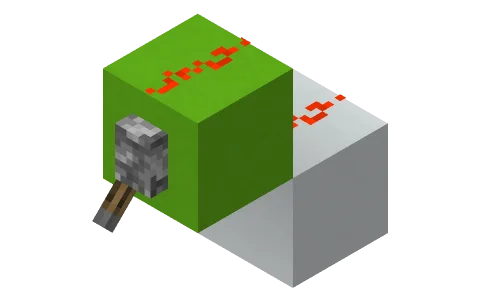
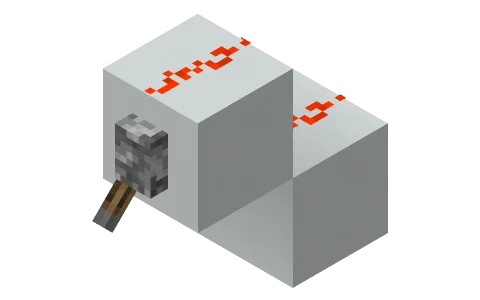
The How builds are recognized page states the rule the site reads by: outputs are repeaters or comparators that power nothing, the block in front of each air, on any block of any colour, a repeater a bit and a comparator a bit or, where the category reads one, a strength from 0 to 15, and one poweri

Changed region(s): [[0.1875, 0.03, 0.625, 0.78]]

diff --git a/src/recognize/guide.rs b/src/recognize/guide.rs
@@ -42,7 +42,6 @@ impl Example {
 }
 
 const WHITE: &str = "white_concrete";
-const YELLOW: &str = "yellow_concrete";
 const LEVER: &str = "lever[face=wall,facing=south,powered=true]";
 const DUST_NS: &str =
     "redstone_wire[east=none,north=side,power=15,south=side,west=none]";
@@ -51,41 +50,42 @@ const DUST_EW: &str =
 const TORCH_EAST: &str = "redstone_wall_torch[facing=east,lit=false]";
 const REPEATER_IN: &str =
     "repeater[delay=1,facing=south,locked=false,powered=true]";
+/// A repeater reading from the west, giving out east.
+const REPEATER_OUT: &str =
+    "repeater[delay=1,facing=west,locked=false,powered=true]";
+/// A comparator reading from the south, giving out north.
+const COMPARATOR_IN: &str =
+    "comparator[facing=south,mode=compare,powered=false]";
 
 /// An input at `x`, `y`: its block, its lever on the south side, and the
 /// dust it drives to the north, on a block of its own.
 fn input(x: i32, y: i32) -> Vec<(Pos, &'static str)> {
-    coloured_input(x, y, WHITE)
-}
-
-/// An input as `input` makes it, its block `block`, with dust on top.
-fn dust_on_top(block: &'static str) -> Vec<(Pos, &'static str)> {
-    [coloured_input(1, 1, block), vec![([1, 2, 1], DUST_EW)]].concat()
-}
-
-/// An input as `input` makes it, its block `block`.
-fn coloured_input(
-    x: i32,
-    y: i32,
-    block: &'static str,
-) -> Vec<(Pos, &'static str)> {
     vec![
-        ([x, y, 1], block),
+        ([x, y, 1], WHITE),
         ([x, y, 2], LEVER),
         ([x, y - 1, 0], WHITE),
         ([x, y, 0], DUST_NS),
     ]
 }
 
-/// An output: dust coming from the west along white blocks onto a block
-/// of `colour` at `x`.
-fn output(x: i32, z: i32, colour: &'static str) -> Vec<(Pos, &'static str)> {
-    vec![
-        ([x - 1, 0, z], WHITE),
-        ([x - 1, 1, z], DUST_EW),
-        ([x, 0, z], colour),
-        ([x, 1, z], DUST_EW),
-    ]
+/// An input as `input` makes it, with dust on top of its block.
+fn dust_on_top() -> Vec<(Pos, &'static str)> {
+    [input(1, 1), vec![([1, 2, 1], DUST_EW)]].concat()
+}
+
+/// An output: dust coming from the west along white blocks into a
+/// repeater on a block at `x`, giving out east into `front`.
+fn output(x: i32, front: &'static str) -> Vec<(Pos, &'static str)> {
+    let mut blocks = vec![
+        ([x - 1, 0, 0], WHITE),
+        ([x - 1, 1, 0], DUST_EW),
+        ([x, 0, 0], WHITE),
+        ([x, 1, 0], REPEATER_OUT),
+    ];
+    if front != "air" {
+        blocks.push(([x + 1, 1, 0], front));
+    }
+    blocks
 }
 
 /// Every example, in the order the page shows them.
@@ -130,21 +130,33 @@ pub fn examples() -> Vec<Example> {
             caption: "Dust on top of an input's block.",
             kept: true,
             breaks: None,
-            blocks: dust_on_top("lime_concrete"),
+            blocks: dust_on_top(),
+        },
+        Example {
+            name: "strength-input",
+            caption: "A comparator with air behind it, giving out into the build: an input taking a strength from 0 to 15, a hex digit.",
+            kept: true,
+            breaks: None,
+            blocks: vec![
+                ([1, 0, 0], WHITE),
+                ([1, 1, 0], DUST_NS),
+                ([1, 0, 1], WHITE),
+                ([1, 1, 1], COMPARATOR_IN),
+            ],
         },
         Example {
             name: "output",
-            caption: "Dust on a block that no block like it touches.",
+            caption: "A repeater giving out into air, on a block of any kind.",
             kept: true,
             breaks: None,
-            blocks: output(1, 0, YELLOW),
+            blocks: output(1, "air"),
         },
         Example {
-            name: "outputs-touching",
-            caption: "Two outputs of one block touching.",
+            name: "output-powering",
+            caption: "A repeater powering a block, which carries the circuit on.",
             kept: false,
             breaks: Some("no outputs"),
-            blocks: [output(1, 0, YELLOW), output(1, 1, YELLOW)].concat(),
+            blocks: output(1, WHITE),
         },
         Example {
             name: "bus-straight",

diff --git a/src/web/pages/about.rs b/src/web/pages/about.rs
@@ -126,17 +126,20 @@ pub fn recognized(viewer: Option<&User>) -> Markup {
                 (rule(
                     "outputs",
                     "Outputs",
-                    "need to be lone blocks, with dust, a repeater, or a comparator on top to read. \
-                     Any block works, wool, concrete, stone, whatever, as long as no other block like it touches it. Glass only counts stained, any colour but white. \
-                     A block under a repeater or comparator that powers another block isn't one: that's just wiring.",
-                    &["output", "outputs-touching"],
+                    "are repeaters or comparators that power nothing: the block in front of each is air. \
+                     They can stand on any block, of any colour. A repeater gives a bit; a comparator gives a bit, \
+                     or a strength from 0 to 15 where the category reads one, like a popcount's count. \
+                     A repeater or comparator that powers a block or dust isn't one: that's just wiring.",
+                    &["output", "output-powering"],
                 ))
                 (rule(
                     "data-inputs",
                     "Inputs",
                     "need a lever on the side of a solid block, a lamp too. Dust on top of the block or underneath it is fine. \
-                     There has to be room for a repeater where the lever is, so a bus could drive it instead.",
-                    &["input", "repeater", "data-dust-on-top", "input-dust-below"],
+                     There has to be room for a repeater where the lever is, so a bus could drive it instead. \
+                     An input taking a strength from 0 to 15, a hex digit, is a comparator with air behind it, \
+                     giving out into the build: RedstoneDB drives it with a barrel there.",
+                    &["input", "repeater", "data-dust-on-top", "input-dust-below", "strength-input"],
                 ))
                 (rule(
                     "control-lines",
@@ -173,7 +176,7 @@ pub fn recognized(viewer: Option<&User>) -> Markup {
                         li { "Counters take A, one clock button, and one write enable lever." }
                         li { "Subtractors are adders that take B away: A − B, less a borrow in. They rank apart from adders." }
                         li { "T flip-flops take one input, a button or a lever, and give one output, which each press toggles." }
-                        li { "Hex adders take A and B a hex digit per block, a signal strength through dust on top, in place of levers. Every other category takes levers." }
+                        li { "Hex adders take A and B a hex digit each, a comparator with air behind it, in place of levers. Every other category takes levers." }
                         li { "Thresholds find their own number: how many inputs it takes to turn them on." }
                         li { "Popcounts and binary-to-hex converters can give their answer as one output's signal strength." }
                         li { "Parity circuits give one output, on when an odd number of inputs are on, or an even number, which is flagged Even." }

diff --git a/src/web/mod.rs b/src/web/mod.rs
@@ -149,13 +149,14 @@ macro_rules! guide_image {
 
 /// The How builds are recognized pictures, one for each of
 /// [`crate::recognize::guide::examples`].
-const GUIDE: [Asset; 10] = [
+const GUIDE: [Asset; 11] = [
     guide_image!("input"),
     guide_image!("input-dust-below"),
     guide_image!("repeater"),
     guide_image!("data-dust-on-top"),
+    guide_image!("strength-input"),
     guide_image!("output"),
-    guide_image!("outputs-touching"),
+    guide_image!("output-powering"),
     guide_image!("bus-straight"),
     guide_image!("bus-diagonal"),
     guide_image!("bus-alternating"),
